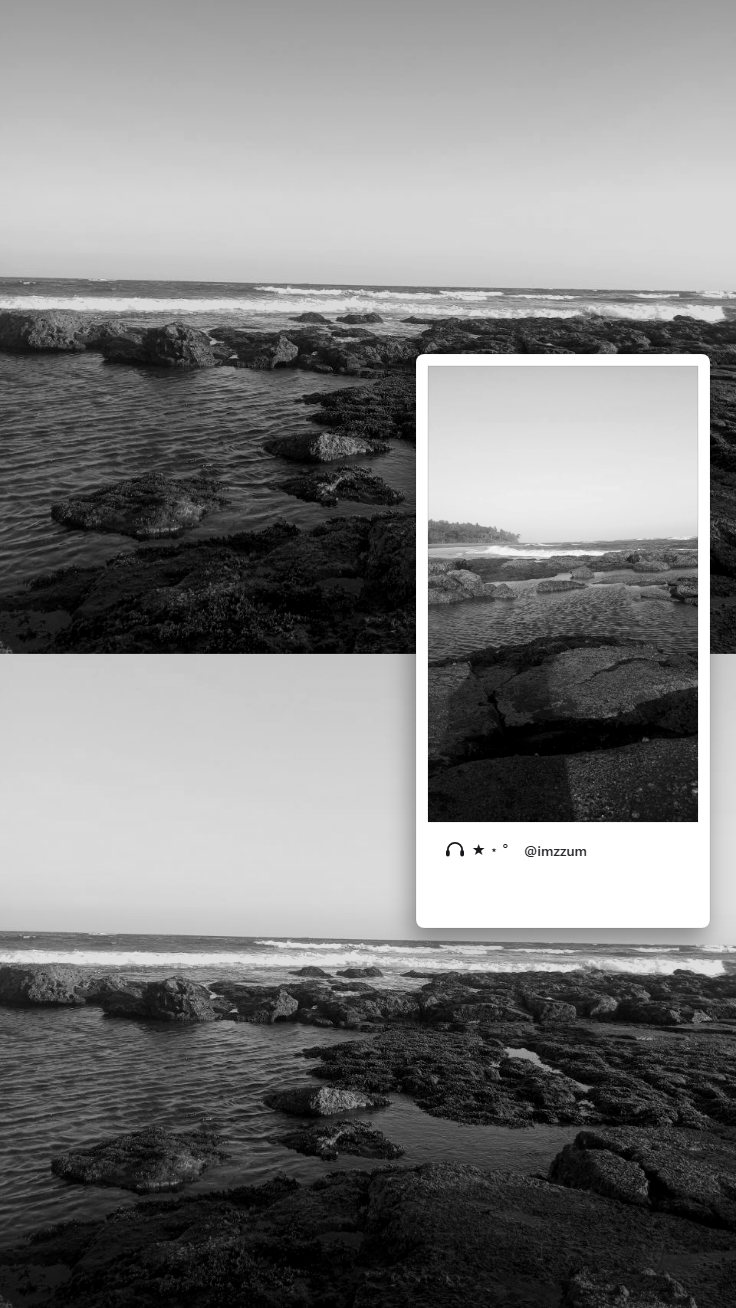
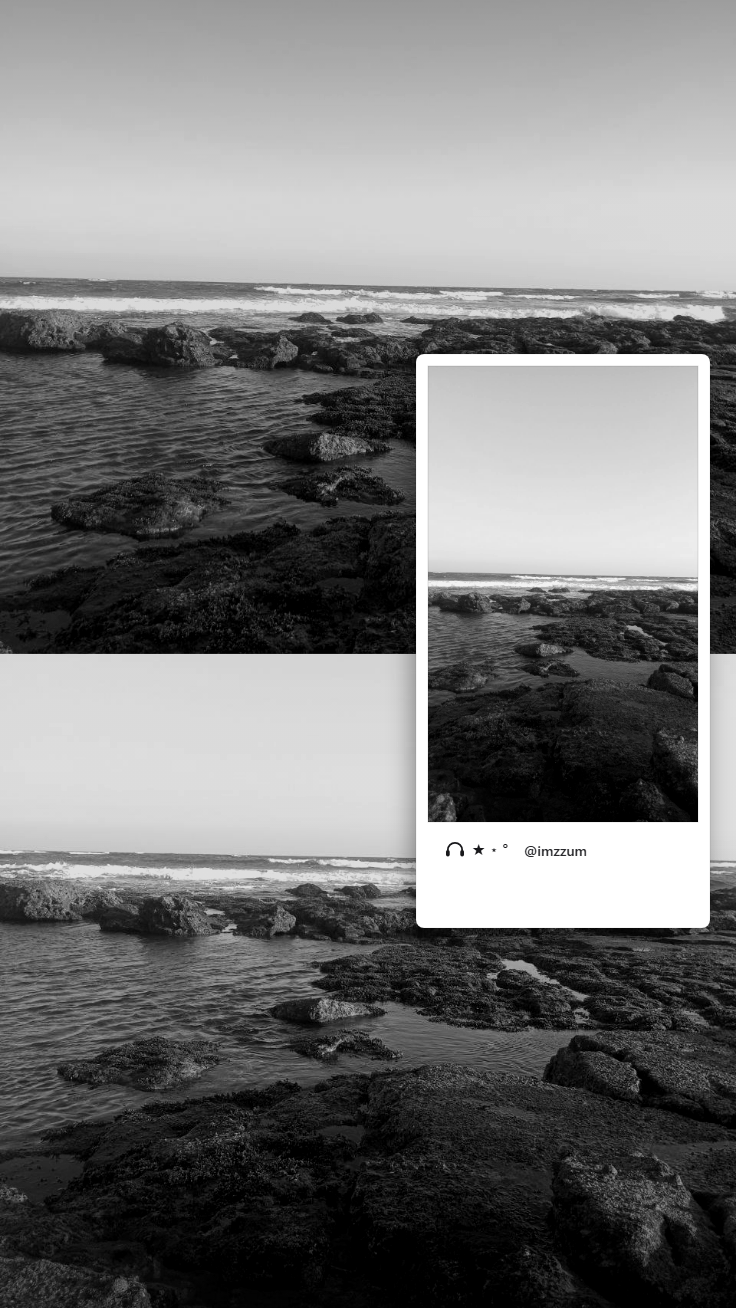
refactor(coastal_polaroid): update category to 3 photos (tam.3) and refresh synthesized preview

Changed region(s): [[0.0, 0.6422, 1.0, 1.0], [0.5625, 0.3976, 0.9688, 0.6422], [0.375, 0.9786, 0.4062, 1.0]]

diff --git a/tests/coastal_polaroid_template.test.js b/tests/coastal_polaroid_template.test.js
@@ -46,19 +46,20 @@ function createMockContext() {
   };
 }
 
-describe('Coastal Polaroid Story 1-Photo Template', () => {
-  it('should have valid metadata and native 9:16 (736x1308) canvas configuration with category 1', () => {
+describe('Coastal Polaroid Story 3-Photo Template', () => {
+  it('should have valid metadata and native 9:16 (736x1308) canvas configuration with category 3', () => {
     assert.strictEqual(coastalPolaroidTemplate.id, 'coastal_polaroid_story');
     assert.strictEqual(coastalPolaroidTemplate.name, 'Coastal Polaroid Story');
     assert.strictEqual(coastalPolaroidTemplate.aspectRatio, '9:16');
-    assert.strictEqual(coastalPolaroidTemplate.photoCount, 1);
-    assert.strictEqual(coastalPolaroidTemplate.category, '1');
+    assert.strictEqual(coastalPolaroidTemplate.photoCount, 3);
+    assert.strictEqual(coastalPolaroidTemplate.category, '3');
     assert.strictEqual(coastalPolaroidTemplate.config.canvasWidth, 736);
     assert.strictEqual(coastalPolaroidTemplate.config.canvasHeight, 1308);
     assert.ok(Array.isArray(coastalPolaroidTemplate.tags));
     assert.ok(coastalPolaroidTemplate.tags.includes('polaroid'));
     assert.ok(coastalPolaroidTemplate.tags.includes('coastal'));
     assert.ok(coastalPolaroidTemplate.tags.includes('monochrome'));
+    assert.ok(coastalPolaroidTemplate.tags.includes('trio'));
     assert.strictEqual(COASTAL_POLAROID_SLOTS.length, 3);
   });
 
@@ -66,7 +67,7 @@ describe('Coastal Polaroid Story 1-Photo Template', () => {
     const registered = getTemplate('coastal_polaroid_story');
     assert.ok(registered, 'coastal_polaroid_story should be registered in template registry');
     assert.strictEqual(registered.id, 'coastal_polaroid_story');
-    assert.strictEqual(registered.category, '1');
+    assert.strictEqual(registered.category, '3');
   });
 
   it('should define precise slot coordinates matching the composition', () => {

diff --git a/src/features/templates/coastal_polaroid_template.js b/src/features/templates/coastal_polaroid_template.js
@@ -18,9 +18,9 @@ export const coastalPolaroidTemplate = {
   previewImage: 'assets/coastal_polaroid_preview.png',
   aspectRatio: '9:16',
   tag: 'COASTAL POLAROID',
-  tags: ['polaroid', 'monochrome', 'coastal', 'beach', 'analog', 'story', 'minimal', 'film', 'single'],
-  photoCount: 1,
-  category: '1',
+  tags: ['polaroid', 'monochrome', 'coastal', 'beach', 'analog', 'story', 'minimal', 'film', 'trio'],
+  photoCount: 3,
+  category: '3',
   config: {
     canvasWidth: 736,
     canvasHeight: 1308,

diff --git a/src/features/templates/template_samples.js b/src/features/templates/template_samples.js
@@ -348,8 +348,8 @@ export const TEMPLATE_SAMPLES = {
     src: 'assets/user_samples/photo_beach_horizon.jpg',
     photos: [
       'assets/user_samples/photo_beach_horizon.jpg',
-      'assets/user_samples/photo_rocky_tide.jpg',
-      'assets/user_samples/photo_hill_coast.jpg'
+      'assets/user_samples/photo_sea_stones.jpg',
+      'assets/user_samples/photo_rocky_tide.jpg'
     ],
     caption: '@imzzum',
     subtitle: 'COASTAL FILM DIARY',
